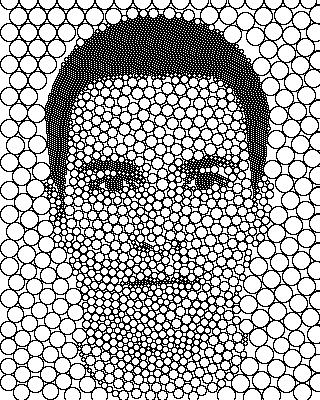
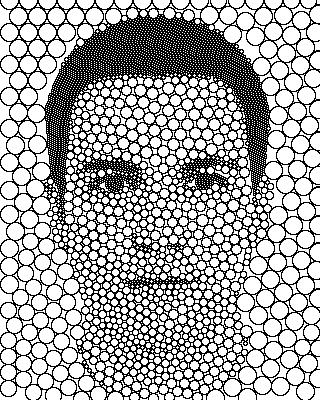
Fixed a bug with scaling (it was trying to scale the image by 100x!), updated the algo description too.

Changed region(s): [[0.0, 0.18, 1.0, 1.0], [0.875, 0.45, 0.9688, 0.54]]

diff --git a/PyCircleriser.py b/PyCircleriser.py
@@ -52,7 +52,7 @@ def getImage(image, scale=1.0, grey=True):
         sys.exit(error_msg)
 
     if scale != 1.0:
-        im = im.resize(tuple(i * scale for i in im.size))
+        im = im.resize(tuple(int(i * scale) for i in im.size))
 
     if grey:
         im = im.convert('L')
@@ -123,6 +123,10 @@ def circlerise(params):
     Now look in the local region for other circles (local
     is determined by the max_radius of other circles + the
     radius of the current potential circle).
+    If there is some circles nearby, check to see if the
+    new circle will overlap with it or not. If all nearby
+    circles won't overlap, then record the radius in a 2D
+    array that corresponds to the image.
     """
 
     im_x, im_y = im.size
@@ -224,7 +228,7 @@ def main(argv=None):
     addarg("--maxrad", type=int, default=10,
             help="Max radius of a circle (corresponds to a white pixel)")
     
-    addarg("--scale", type=int, default=100,
+    addarg("--scale", type=float, default=1,
             help="Percent to scale up the circimg (sometimes makes it look better).")
 
     addarg("--bgcolour", type=int, default=255,
